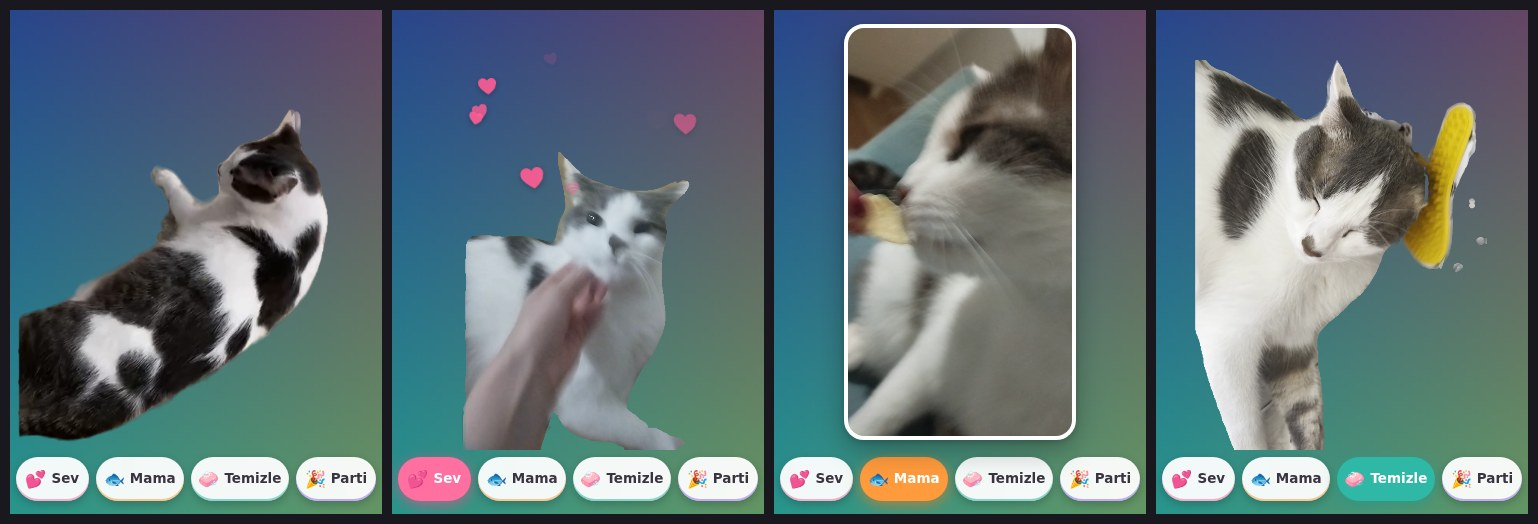
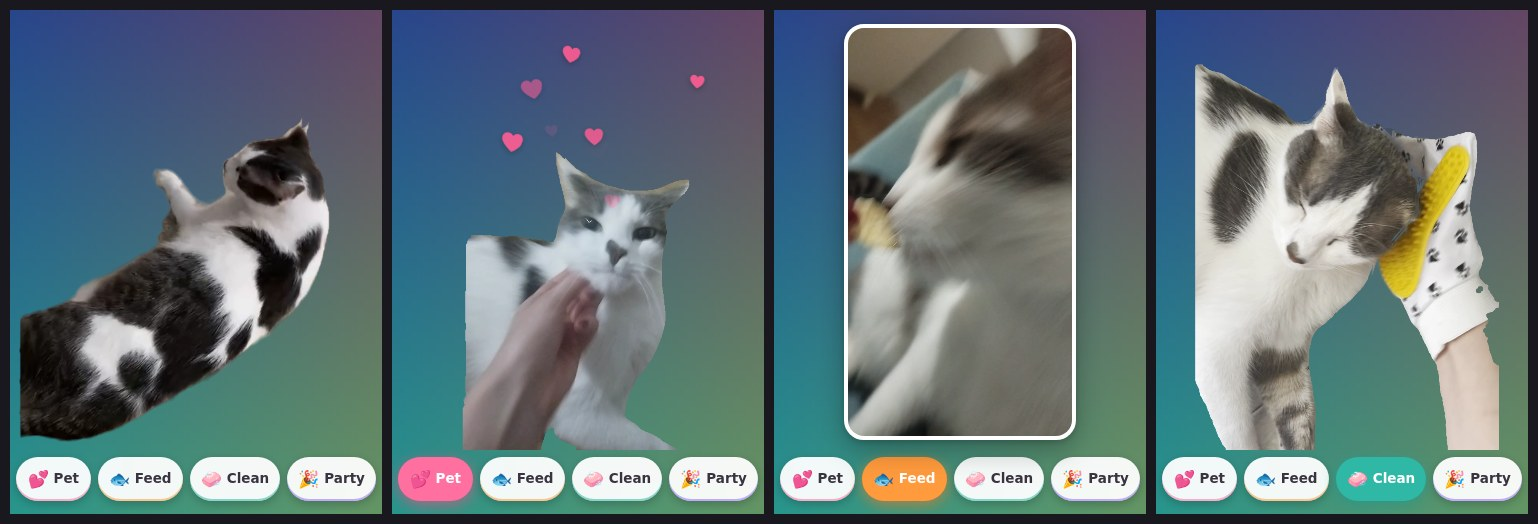
English app and installer (1.1.0)
- Buttons, tray menu, window titles and the setup wizard are now in English
- Setup file renamed to MyDearCat-Setup.exe; shortcuts are named "My Dear Cat"
- Installing over the earlier Turkish version replaces its shortcuts
- English user readme is installed as README.txt

diff --git a/app/main.js b/app/main.js
@@ -82,8 +82,8 @@ function klipleriTara() {
 // ---------------------------------------------------------------- kedi:// protocol (with Range support for video)
 function dosyaYaniti(file, req) {
   let st;
-  try { st = fs.statSync(file); } catch { return new Response('bulunamadı', { status: 404 }); }
-  if (!st.isFile()) return new Response('bulunamadı', { status: 404 });
+  try { st = fs.statSync(file); } catch { return new Response('not found', { status: 404 }); }
+  if (!st.isFile()) return new Response('not found', { status: 404 });
   const type = MIME[path.extname(file).toLowerCase()] || 'application/octet-stream';
   const range = req.headers.get('range');
   if (range) {
@@ -111,9 +111,9 @@ function protokoluKur() {
     let base, rel;
     if (p.startsWith('/app/')) { base = RENDER_DIR; rel = p.slice(5); }
     else if (p.startsWith('/videolar/')) { base = VIDEO_DIR; rel = p.slice(10); }
-    else return new Response('bulunamadı', { status: 404 });
+    else return new Response('not found', { status: 404 });
     const file = path.normalize(path.join(base, rel));
-    if (!file.startsWith(path.normalize(base + path.sep))) return new Response('yasak', { status: 403 });
+    if (!file.startsWith(path.normalize(base + path.sep))) return new Response('forbidden', { status: 403 });
     return dosyaYaniti(file, req);
   });
 }
@@ -134,7 +134,7 @@ function pencereOlustur() {
     ...pos, width, height,
     transparent: true, frame: false, resizable: false, maximizable: false, minimizable: false,
     fullscreenable: false, skipTaskbar: true, hasShadow: false, backgroundColor: '#00000000',
-    alwaysOnTop: cfg.ustte, show: false, title: 'Kedi', icon: ICON, thickFrame: false,
+    alwaysOnTop: cfg.ustte, show: false, title: 'My Dear Cat', icon: ICON, thickFrame: false,
     webPreferences: {
       preload: path.join(__dirname, 'preload.js'),
       contextIsolation: true, nodeIntegration: false, backgroundThrottling: false, spellcheck: false,
@@ -270,25 +270,25 @@ function menuyuKur() {
   const gorunur = win && win.isVisible();
   const radyo = (ad, deger) => ({ label: ad, type: 'radio', checked: cfg.boyut === deger, click: () => boyutDegistir(deger) });
   const menu = Menu.buildFromTemplate([
-    { label: gorunur ? 'Kediyi gizle' : 'Kediyi göster', click: () => { if (!win) return; if (win.isVisible()) win.hide(); else { win.showInactive(); win.moveTop(); } } },
-    { label: 'Kediyi öne getir', click: () => { if (win) { win.showInactive(); win.moveTop(); } } },
+    { label: gorunur ? 'Hide the cat' : 'Show the cat', click: () => { if (!win) return; if (win.isVisible()) win.hide(); else { win.showInactive(); win.moveTop(); } } },
+    { label: 'Bring to front', click: () => { if (win) { win.showInactive(); win.moveTop(); } } },
     { type: 'separator' },
-    { label: 'Boyut', submenu: [radyo('Küçük', 'kucuk'), radyo('Orta', 'orta'), radyo('Büyük', 'buyuk'), radyo('Çok büyük', 'cok_buyuk')] },
-    { label: 'Her zaman en üstte', type: 'checkbox', checked: cfg.ustte, click: (mi) => {
+    { label: 'Size', submenu: [radyo('Small', 'kucuk'), radyo('Medium', 'orta'), radyo('Large', 'buyuk'), radyo('Extra large', 'cok_buyuk')] },
+    { label: 'Always on top', type: 'checkbox', checked: cfg.ustte, click: (mi) => {
       cfg.ustte = mi.checked; ayarYaz(); if (win) win.setAlwaysOnTop(cfg.ustte, 'floating'); } },
-    { label: 'Ses', type: 'checkbox', checked: cfg.ses, click: (mi) => { cfg.ses = mi.checked; ayarYaz(); ayarlariGonder(); } },
-    { label: 'Butonlar', submenu: [
-      { label: 'Her zaman görünsün', type: 'radio', checked: cfg.butonlar === 'her_zaman', click: () => { cfg.butonlar = 'her_zaman'; ayarYaz(); ayarlariGonder(); } },
-      { label: 'Sadece fare yaklaşınca', type: 'radio', checked: cfg.butonlar === 'yaklasinca', click: () => { cfg.butonlar = 'yaklasinca'; ayarYaz(); ayarlariGonder(); } },
+    { label: 'Sound', type: 'checkbox', checked: cfg.ses, click: (mi) => { cfg.ses = mi.checked; ayarYaz(); ayarlariGonder(); } },
+    { label: 'Buttons', submenu: [
+      { label: 'Always visible', type: 'radio', checked: cfg.butonlar === 'her_zaman', click: () => { cfg.butonlar = 'her_zaman'; ayarYaz(); ayarlariGonder(); } },
+      { label: 'Only when the mouse is near', type: 'radio', checked: cfg.butonlar === 'yaklasinca', click: () => { cfg.butonlar = 'yaklasinca'; ayarYaz(); ayarlariGonder(); } },
     ] },
-    { label: 'Bilgisayar açılınca başlasın', type: 'checkbox', checked: cfg.otomatik, click: (mi) => { cfg.otomatik = mi.checked; ayarYaz(); otomatikBaslat(cfg.otomatik); } },
+    { label: 'Start with Windows', type: 'checkbox', checked: cfg.otomatik, click: (mi) => { cfg.otomatik = mi.checked; ayarYaz(); otomatikBaslat(cfg.otomatik); } },
     { type: 'separator' },
-    { label: 'Konumu sıfırla', click: () => {
+    { label: 'Reset position', click: () => {
       if (!win) return; const b = win.getBounds(); const p = varsayilanKonum(b.width, b.height);
       win.setBounds({ ...p, width: b.width, height: b.height }); win.showInactive(); konumuKaydet(); } },
-    { label: 'Videolar klasörünü aç', click: () => shell.openPath(VIDEO_DIR) },
+    { label: 'Open videos folder', click: () => shell.openPath(VIDEO_DIR) },
     { type: 'separator' },
-    { label: 'Çıkış', click: () => app.quit() },
+    { label: 'Quit', click: () => app.quit() },
   ]);
   tray.setContextMenu(menu);
 }
@@ -297,7 +297,7 @@ function tepsiyiKur() {
   let img = nativeImage.createFromPath(TRAY_ICON);
   if (img.isEmpty()) img = nativeImage.createFromPath(ICON).resize({ width: 32, height: 32 });
   tray = new Tray(img);
-  tray.setToolTip('Kedi');
+  tray.setToolTip('My Dear Cat');
   tray.on('click', () => { if (win) { win.showInactive(); win.moveTop(); } });
   menuyuKur();
 }

diff --git a/app/renderer/index.html b/app/renderer/index.html
@@ -1,9 +1,9 @@
 <!doctype html>
-<html lang="tr">
+<html lang="en">
 <head>
 <meta charset="utf-8">
 <meta http-equiv="Content-Security-Policy" content="default-src 'self'; media-src 'self'; img-src 'self' data:; style-src 'self' 'unsafe-inline'; script-src 'self'">
-<title>Kedi</title>
+<title>My Dear Cat</title>
 <link rel="stylesheet" href="style.css">
 </head>
 <body>
@@ -13,10 +13,10 @@
     <div id="kalpler"></div>
   </div>
   <div id="bar">
-    <button class="btn" data-eylem="sevme"   style="--c:#ff6f9f"><span class="e">💕</span><span class="y">Sev</span></button>
-    <button class="btn" data-eylem="mama"    style="--c:#ff9a3d"><span class="e">🐟</span><span class="y">Mama</span></button>
-    <button class="btn" data-eylem="temizle" style="--c:#2fb8a6"><span class="e">🧼</span><span class="y">Temizle</span></button>
-    <button class="btn" data-eylem="parti"   style="--c:#9a6bff"><span class="e">🎉</span><span class="y">Parti</span></button>
+    <button class="btn" data-eylem="sevme"   style="--c:#ff6f9f"><span class="e">💕</span><span class="y">Pet</span></button>
+    <button class="btn" data-eylem="mama"    style="--c:#ff9a3d"><span class="e">🐟</span><span class="y">Feed</span></button>
+    <button class="btn" data-eylem="temizle" style="--c:#2fb8a6"><span class="e">🧼</span><span class="y">Clean</span></button>
+    <button class="btn" data-eylem="parti"   style="--c:#9a6bff"><span class="e">🎉</span><span class="y">Party</span></button>
   </div>
   <script src="app.js"></script>
 </body>

diff --git a/app/renderer/app.js b/app/renderer/app.js
@@ -3,10 +3,10 @@
  * Reads the files in videolar/<folder>/:
  *   bosta       → idle loops, played continuously in random order
  *   yaklasinca  → when the mouse comes close to the cat
- *   sevme       → the "Sev" (pet) button and clicking the cat (random pick)
- *   mama, temizle, parti → the buttons of the same name (feed, clean, party)
+ *   sevme       → the Pet button and clicking the cat (random pick)
+ *   mama, temizle, parti → the Feed, Clean and Party buttons
  * .webm = transparent cat, .mp4/.mov = shown as a framed card.
- * (Identifiers and UI text are Turkish: the app was made for a Turkish user.)
+ * (Identifiers are Turkish: the app was first made for a Turkish user.)
  */
 const api = window.kedi;
 const sahne = document.getElementById('sahne');

diff --git a/app/renderer/konfeti.html b/app/renderer/konfeti.html
@@ -1,9 +1,9 @@
 <!doctype html>
-<html lang="tr">
+<html lang="en">
 <head>
 <meta charset="utf-8">
 <meta http-equiv="Content-Security-Policy" content="default-src 'self'; script-src 'self' 'unsafe-inline'; style-src 'unsafe-inline'">
-<title>Konfeti</title>
+<title>Confetti</title>
 <style>html,body{margin:0;height:100%;background:transparent;overflow:hidden}canvas{display:block;width:100vw;height:100vh}</style>
 </head>
 <body>

diff --git a/README.md b/README.md
@@ -8,24 +8,22 @@ brush it and throw it a party. When nobody is around, it just rests, the way it 
 
 ## Install
 
-1. Download **Kedi-Kurulum.exe** from the [Releases](../../releases) page.
-2. Double-click it → *İleri* (Next) → *Bitir* (Finish). No administrator rights needed.
+1. Download **MyDearCat-Setup.exe** from the [Releases](../../releases) page.
+2. Double-click it → *Next* → *Finish*. No administrator rights needed.
 3. The cat appears in the bottom-right corner and comes back every time the computer starts.
 
-To uninstall: Windows Settings → Apps → **Kedi** → Uninstall.
+To uninstall: Windows Settings → Apps → **My Dear Cat** → Uninstall.
 
 > If Windows shows an "unknown publisher" warning, choose *More info → Run anyway*. The app just isn't code-signed.
-
-The app's interface is in Turkish on purpose. It was made for a Turkish user.
 
 ## What it does
 
 | | |
 |---|---|
-| **Sev** (Pet) | Plays one of four petting clips at random while hearts float up. Clicking the cat does the same. |
-| **Mama** (Feed) | The cat eating, shown in a rounded frame. |
-| **Temizle** (Clean) | The cat being brushed with a grooming glove. |
-| **Parti** (Party) | The cat, plus confetti raining across the whole screen. |
+| **Pet** | Plays one of four petting clips at random while hearts float up. Clicking the cat does the same. |
+| **Feed** | The cat eating, shown in a rounded frame. |
+| **Clean** | The cat being brushed with a grooming glove. |
+| **Party** | The cat, plus confetti raining across the whole screen. |
 | Idle | Stabilised loops; switches to a different pose at random every 25–50 s. |
 | Mouse nearby | The cat turns and looks at you. |
 | Dragging | Grab the cat and put it anywhere; it remembers the spot. |
@@ -38,7 +36,7 @@ button visibility, start with Windows, reset position, open the videos folder, a
 
 ## Videos
 
-On start-up the app scans `videolar/` (videos). Each subfolder is a behaviour:
+On start-up the app scans `videolar/` (videos). Each subfolder is a behaviour (folder names are Turkish):
 
 | Folder | When it plays |
 |---|---|
@@ -58,7 +56,7 @@ On start-up the app scans `videolar/` (videos). Each subfolder is a behaviour:
 npm install
 npm start               # run the cat in development mode (reads videolar/ from the repo root)
 npm run package         # dist/Kedi-win32-x64 (Windows x64 app)
-npm run installer       # out/Kedi-Kurulum.exe (needs NSIS: apt install nsis)
+npm run installer       # out/MyDearCat-Setup.exe (needs NSIS: apt install nsis)
 ```
 
 Packaging also works on Linux and macOS; the Windows installer only needs `makensis`.
@@ -70,7 +68,7 @@ app/                 Electron app
   renderer/          index.html, app.js (player + behaviours), style.css, konfeti.html (confetti)
   test-scenario.js   automated screenshot test with KEDI_TEST=<dir> (never packaged)
 videolar/            full-quality clips
-build/               icon, NSIS script (installer.nsi), packaging scripts, Turkish user readme
+build/               icon, NSIS script (installer.nsi), packaging scripts, user readme
 video-processing/    the Python pipeline that cut the cat out of the original videos (below)
 ```
 
